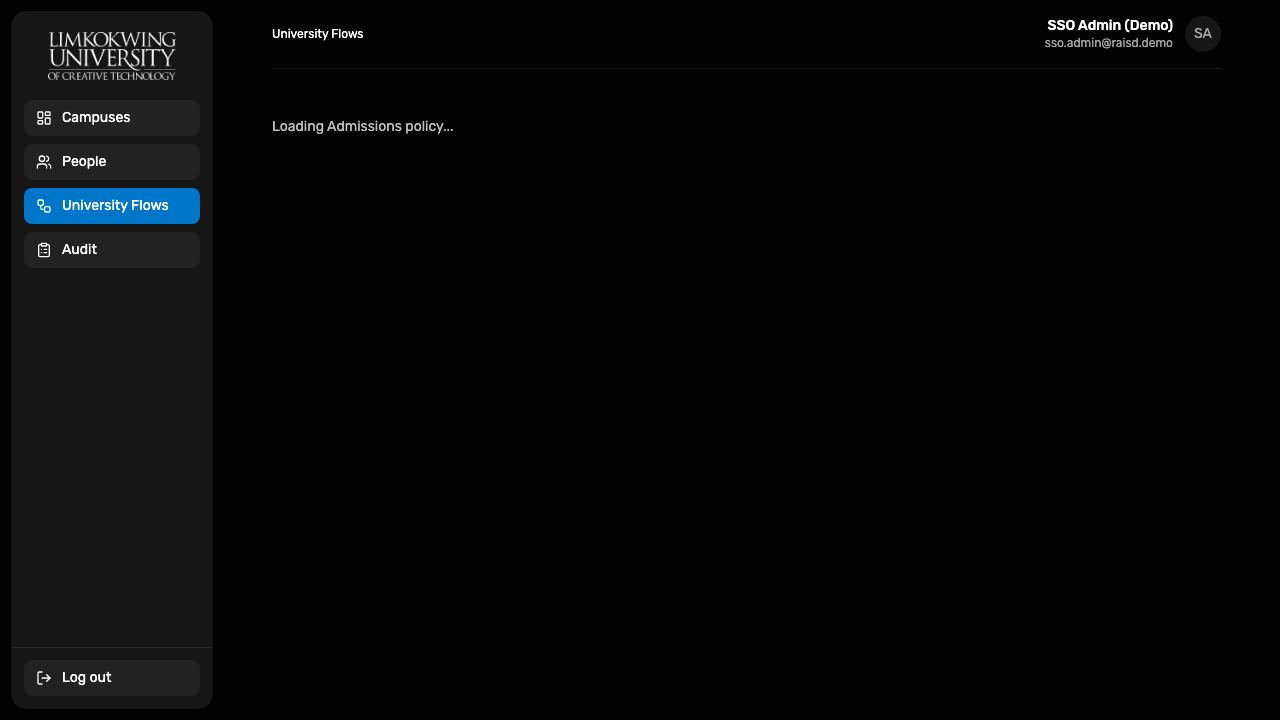
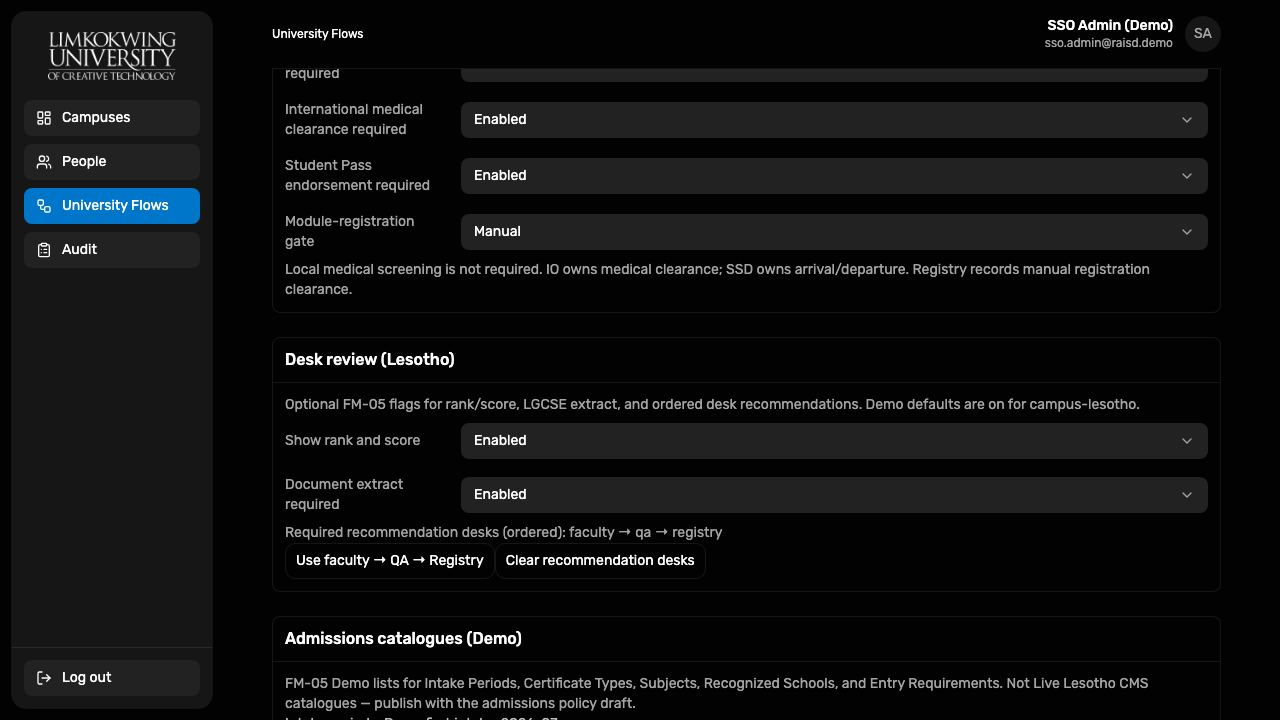
Mirror Control Desk review and catalogues playback screenshots.

diff --git a/diagrams/old-cms-lesotho/demo-role-playback.html b/diagrams/old-cms-lesotho/demo-role-playback.html
@@ -661,7 +661,7 @@
 </main>
   <script src="../abbr-tooltips.js"></script>
   <script type="module">
-    import { createPlayer } from "./demo-role-playback.js?v=20261028u"
+    import { createPlayer } from "./demo-role-playback.js?v=20261028v"
     createPlayer({
       roleListEl: document.getElementById("role-list"),
       featureListEl: document.getElementById("feature-list"),
